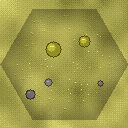
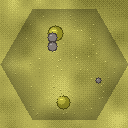
feat: Phase 14.4 — feature & lake art (composite bakes)
BakeTerrainTiles now bakes the full legal (terrain, vegetation) matrix
from FeatureRules: 19 tiles — the 10 base terrains plus lake and the
composites (grassland/plains/tundra _forest, grassland/plains _jungle,
grassland_marsh, desert_oasis, ocean/coast _ice). Marsh pools get an
explicit murky blue-grey so they read as water, not canopy. Retired
forest/jungle/wetlands.png deleted. Minimap tints featured tiles 40%
toward the feature colour so woods and pack ice read at a glance.

Note: tile look judged from the baked PNGs; an interactive F5 pass at
the oblique camera angle is still worth a glance.

diff --git a/scripts/art/TerrainArtGenerator.cs b/scripts/art/TerrainArtGenerator.cs
@@ -286,18 +286,21 @@ public static class TerrainArtGenerator
         ScatterRocks(img, ramp, rng, count: 2, minR: 2, maxR: 3);
     }
 
-    // Marsh overlay: dark standing-water pools over the base ground, with reedy
+    // Marsh overlay: murky standing-water pools over the base ground, with reedy
     // tufts along their edges. Damp, low, and broken-up. `ramp` is the Marsh ramp.
+    // The pool colour is explicit blue-grey water (NOT ramp-derived) so pools read
+    // as water, not as dark canopy discs.
     private static void PaintMarshOverlay(Image img, Color[] ramp, Rng rng)
     {
-        Color water = Shade(ramp[0], -0.10f, +0.10f, -0.02f); // dark cool pool
+        Color water = new(0.24f, 0.38f, 0.44f); // murky blue-grey pool
+        Color bank  = Shade(ramp[1], -0.10f, +0.08f);
         for (int p = 0; p < 5; p++)
         {
             int px = rng.Range(20, 108), py = rng.Range(20, 108);
             int r  = rng.Range(6, 12);
             if (!InFootprint(px, py, r * 0.5f)) { p--; continue; }
-            Disc(img, px, py, r, water);
-            Plot(img, px - r / 2, py - r / 2, ramp[5]); // glint
+            DiscOutlined(img, px, py, r, water, bank);
+            Plot(img, px - r / 2, py - r / 2, Colors.White); // glint
         }
         Blades(img, ramp, rng, 90); // reeds
         ScatterRocks(img, ramp, rng, count: 2, minR: 2, maxR: 3);

diff --git a/scripts/ui/MinimapController.cs b/scripts/ui/MinimapController.cs
@@ -85,6 +85,11 @@ public partial class MinimapController : Control
         {
             if (!fog.IsDiscovered(axial)) continue;
             var col = HexProjection.TerrainColor(_state.Map.Tiles[axial]);
+            // Vegetation/ice features tint the base colour so woods and pack ice
+            // read on the minimap (Hills stays geometry-only).
+            var veg = _state.Map.FeatureAt(axial) & FeatureRules.VegMask;
+            if (veg != Feature.None)
+                col = col.Lerp(HexProjection.FeatureColor(veg), 0.4f);
             if (!fog.IsVisible(axial)) col = col.Darkened(0.45f);
             DrawRect(CellRect(world), col);
         }

diff --git a/docs/ROADMAP.md b/docs/ROADMAP.md
@@ -300,7 +300,7 @@ for this phase (pre-release decision): `TerrainType` drops its tree terrains out
       `ShelfChance` knobs on `MapScriptParams`. *Done when:* histogram shows a desert
       belt, polar ice, and 25–35% of land in coherent Forest/Jungle clumps with zero
       legality violations across 10 seeds.
-- [ ] **14.4 — Feature & lake art.** Refine the overlay motifs at the oblique camera;
+- [x] **14.4 — Feature & lake art.** Refine the overlay motifs at the oblique camera;
       `BakeTerrainTiles` iterates the legal `(terrain, veg)` matrix; commit the new
       composite PNGs (lake, *_forest, *_jungle, grassland_marsh, desert_oasis,
       ocean/coast_ice) and delete the retired tree-terrain tiles; optional minimap
